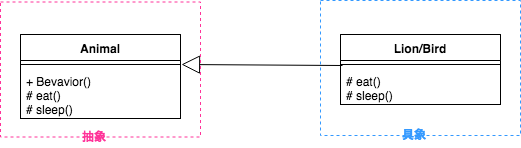
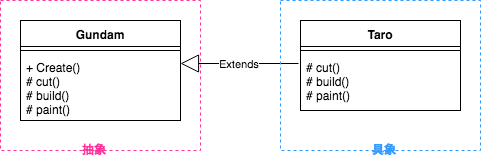
fix TemplateMethod

diff --git a/template_method/2/template_method.go b/template_method/2/template_method.go
@@ -1,36 +1,32 @@
 package template_method
 
 // 小文字にしてプライベートにする
-type animal interface {
-	eat()
-	sleep()
+type kit interface {
+	cut()
+	build()
+	paint()
 }
 
-type Animal struct {
-	animal animal
+type Gundam struct {
+	kit
 }
 
-func (s *Animal) Behavior() {
-	s.animal.eat()
-	s.animal.sleep()
+func (s *Gundam) Create() {
+	s.kit.cut()
+	s.kit.build()
+	s.kit.paint()
 }
 
-type Lion struct{}
+type Taro struct{}
 
-func (s *Lion) eat() {
-	println("肉を食べる")
+func (s *Taro) cut() {
+	println("ニッパーで切る")
 }
 
-func (s *Lion) sleep() {
-	println("草原で寝る")
+func (s *Taro) build() {
+	println("組み立てる")
 }
 
-type Bird struct{}
-
-func (s *Bird) eat() {
-	println("虫を食べる")
-}
-
-func (s *Bird) sleep() {
-	println("巣で寝る")
+func (s *Taro) paint() {
+	println("色を塗る")
 }

diff --git a/template_method/1/template_method.go b/template_method/1/template_method.go
@@ -1,38 +1,33 @@
 package template_method
 
 // 小文字にしてプライベートにする
-type animal interface {
-	eat()
-	sleep()
+type kit interface {
+	cut()
+	build()
+	paint()
 }
 
-type Animal struct{}
-
-func Behavior(a animal) {
-	a.eat()
-	a.sleep()
+type Gundam struct {
 }
 
-type Lion struct {
-	*Animal
+func (s *Gundam) Create(kit kit) {
+	kit.cut()
+	kit.build()
+	kit.paint()
 }
 
-func (s *Lion) eat() {
-	println("肉を食べる")
+type Taro struct {
+	*Gundam
 }
 
-func (s *Lion) sleep() {
-	println("草原で寝る")
+func (s *Taro) cut() {
+	println("ニッパーで切る")
 }
 
-type Bird struct {
-	*Animal
+func (s *Taro) build() {
+	println("組み立てる")
 }
 
-func (s *Bird) eat() {
-	println("虫を食べる")
-}
-
-func (s *Bird) sleep() {
-	println("巣で寝る")
+func (s *Taro) paint() {
+	println("色を塗る")
 }

diff --git a/template_method/2/template_method_test.go b/template_method/2/template_method_test.go
@@ -2,12 +2,7 @@ package template_method
 
 import "testing"
 
-func TestLion(t *testing.T) {
-	s := &Animal{new(Lion)}
-	s.Behavior()
-}
-
-func TestBird(t *testing.T) {
-	s := &Animal{new(Bird)}
-	s.Behavior()
+func TestTemplateMethod2(t *testing.T) {
+	s := &Gundam{new(Taro)}
+	s.Create()
 }

diff --git a/template_method/1/template_method_test.go b/template_method/1/template_method_test.go
@@ -2,12 +2,7 @@ package template_method
 
 import "testing"
 
-func TestLion(t *testing.T) {
-	s := &Lion{}
-	Behavior(s)
-}
-
-func TestBird(t *testing.T) {
-	s := &Bird{}
-	Behavior(s)
+func TestTemplateMethod1(t *testing.T) {
+	s := &Taro{}
+	s.Create(s)
 }

diff --git a/template_method/README.md b/template_method/README.md
@@ -13,3 +13,8 @@
   * 密結合
   * 変更に弱い
   * 再利用性が低い
+
+### 例題
+
+* 細かいことはその人任せるとして、ガンダムを作ってもらうことにしました
+* ガンダムはパーツを切って、組み立て、色を塗ります
